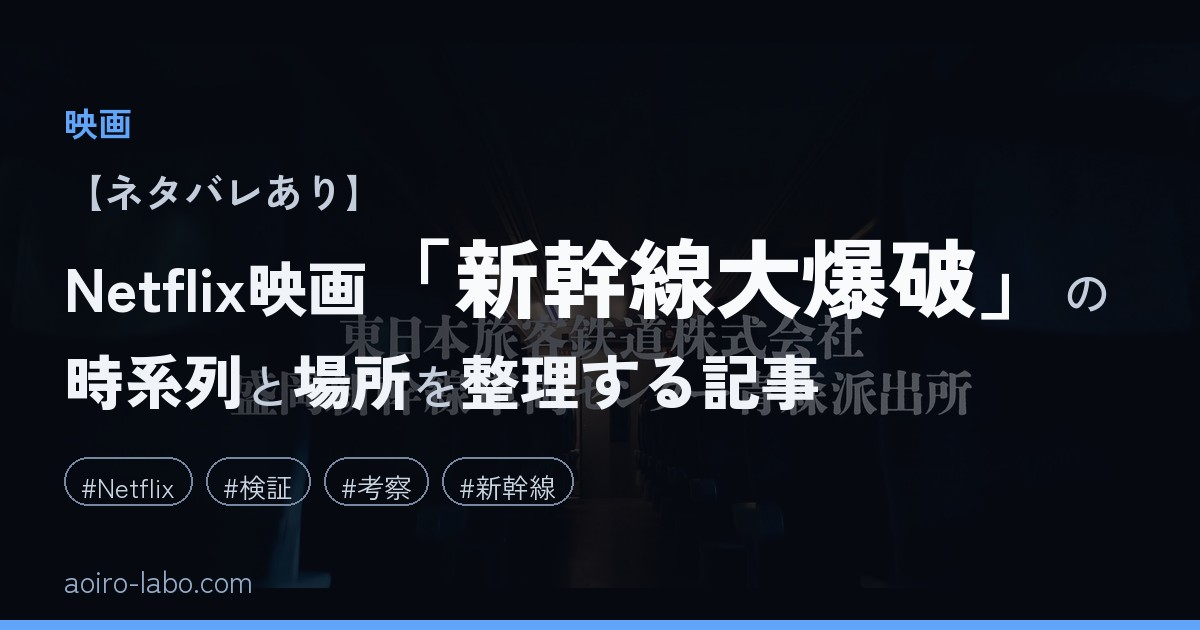
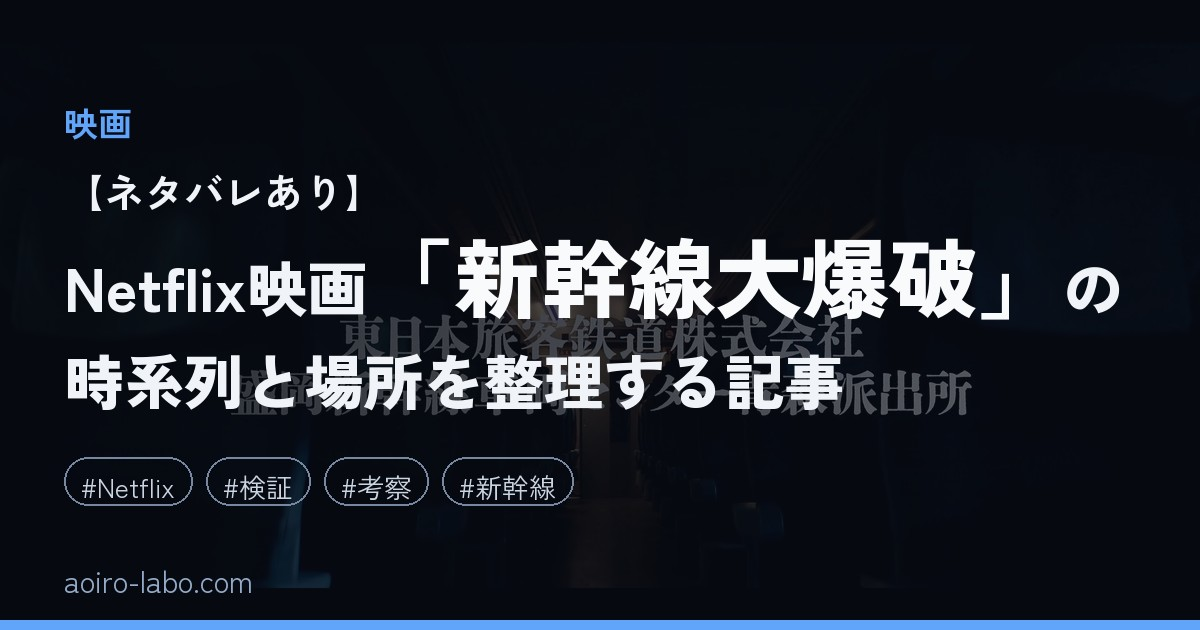
カバー生成：サブ置き換えを廃止し通常と同じ扱いに

Changed region(s): [[0.2158, 0.5429, 0.7092, 0.6635], [0.0617, 0.2714, 0.3083, 0.3317], [0.8633, 0.4222, 0.9558, 0.5127]]

diff --git a/tools/generate_cover.py b/tools/generate_cover.py
@@ -230,7 +230,7 @@ def background(acc):
 def style_of(cls, size, acc):
     if cls=='hero': return cover_font("Bold", int(size*1.45)), WHITE
     if cls=='accent': return cover_font("SemiBold", int(size*1.15)), acc
-    if cls=='sub': return cover_font("Medium", max(20,int(size*0.8))), SUBC
+    if cls=='sub': return cover_font("Bold", size), BASE
     return cover_font("Bold", size), BASE
 
 def line_heights(lines, size, acc):
@@ -441,7 +441,7 @@ def make(path, out, hero_override=None, emphasis_override=None):
             if cat:
                 d.text((MARGIN, y), cat, font=cover_font("SemiBold", 34), fill=acc); y += 34+30
             if bracket:
-                d.text((MARGIN, y), bracket, font=cover_font("SemiBold", 40), fill=SUBC); y += bracket_h
+                d.text((MARGIN, y), bracket, font=cover_font("SemiBold", 40), fill=BASE); y += bracket_h
             draw_lines(d, items, lines, widths, MARGIN, y, size, acc, heights)
             y += block_h
             if tags:
@@ -527,7 +527,7 @@ def make(path, out, hero_override=None, emphasis_override=None):
             if cat:
                 d.text((gx, y), cat, font=cover_font("SemiBold", 34), fill=acc); y += 34+30
             if bracket:
-                d.text((gx, y), bracket, font=cover_font("SemiBold", 40), fill=SUBC); y += bracket_h
+                d.text((gx, y), bracket, font=cover_font("SemiBold", 40), fill=BASE); y += bracket_h
             title_top = y
             draw_lines(d, items, lines, widths, gx, y, size, acc, heights)
             d.text((gx + maxlw + 14, title_top - kw_bb[1]), hero, font=kw_font, fill=WHITE)
@@ -571,7 +571,7 @@ def make(path, out, hero_override=None, emphasis_override=None):
     if cat:
         d.text((MARGIN, y), cat, font=cover_font("SemiBold", 34), fill=acc); y += 34+30
     if bracket:
-        d.text((MARGIN, y), bracket, font=cover_font("SemiBold", 40), fill=SUBC); y += bracket_h
+        d.text((MARGIN, y), bracket, font=cover_font("SemiBold", 40), fill=BASE); y += bracket_h
     draw_lines(d, items, lines, widths, MARGIN, y, size, acc, heights)
     y += block_h
     finish(d, img, cat, tags, acc, y, out)
